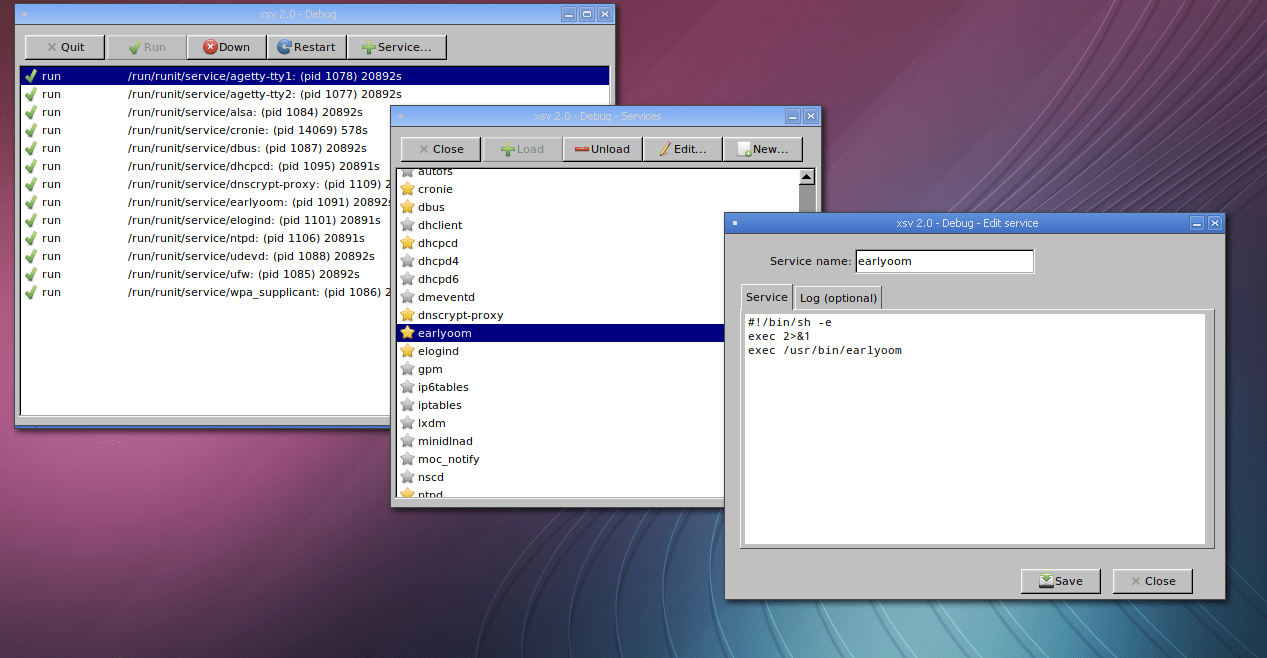
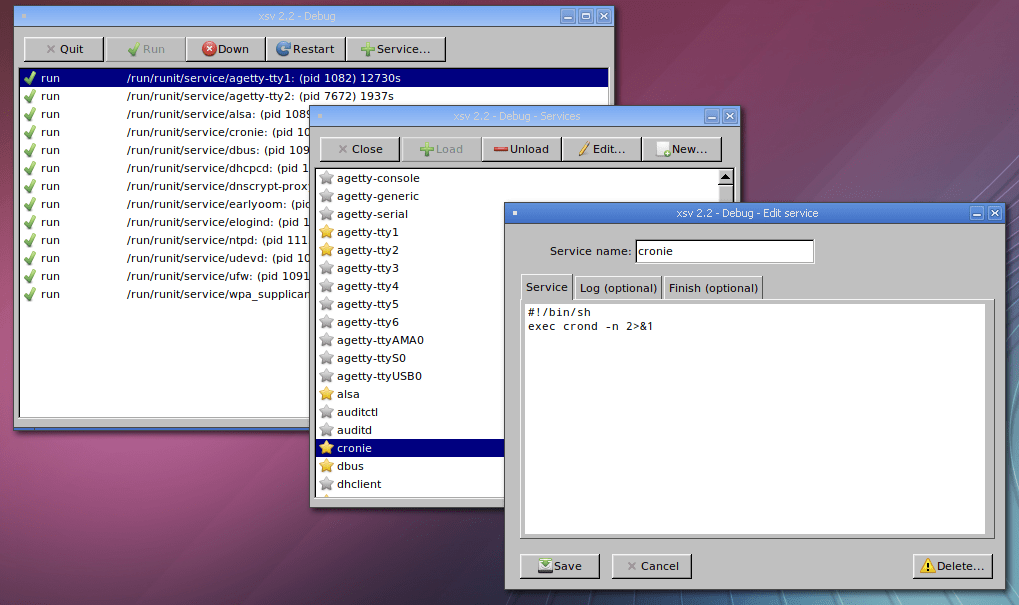
Allow delete service

diff --git a/src/xsv.cpp b/src/xsv.cpp
@@ -34,14 +34,16 @@ void SetFont(Fl_Text_Editor* w);
 void RemoveNewLine(std::string& str);
 bool AskIfContinue(char const* const service);
 void MakeServicePath(std::string const& service, std::string& path);
+void MakeServiceRunDirPath(std::string const& service, std::string& path);
 
 void QuitCb(UNUSED Fl_Widget* w, UNUSED void* data);
 void SelectCb(Fl_Widget* w, UNUSED void* data);
 void CommandCb(Fl_Widget* w, UNUSED void* data);
-void IntallUninstallCb(Fl_Widget* w, UNUSED void* data);
+void LoadUnloadCb(Fl_Widget* w, UNUSED void* data);
 void AddServicesCb(UNUSED Fl_Widget* w, void* data);
 void TimerCb(UNUSED void* data);
 void EditNewCb(Fl_Widget* w, void* data);
+void DeleteServiceCb(UNUSED Fl_Widget* w, void* data);
 
 static int itemSelect[BROWSER_MAX] { [ENABLE] = SELECT_RESET, [LIST] = SELECT_RESET };
 
@@ -263,8 +265,8 @@ void FillBrowserList(void)
 
 	FILE* pipe = PipeOpen(LS_SV);
 
-	btn[INSTALL]->deactivate();
-	btn[UNINSTALL]->deactivate();
+	btn[LOAD]->deactivate();
+	btn[UNLOAD]->deactivate();
 
 	browser[LIST]->clear();
 
@@ -311,11 +313,11 @@ void FillBrowserList(void)
 
 			if (data == STR_LOAD)
 			{
-				btn[UNINSTALL]->activate();
+				btn[UNLOAD]->activate();
 			}
 			else if (data == STR_UNLOAD)
 			{
-				btn[INSTALL]->activate();
+				btn[LOAD]->activate();
 			}
 			else
 			{
@@ -469,52 +471,37 @@ void RemoveNewLine(std::string& str)
 }
 
 
-void IntallUninstallCb(Fl_Widget* w, UNUSED void* data)
+void LoadUnloadCb(Fl_Widget* w, UNUSED void* data)
 {
 	ASSERT_DBG(w);
-
-	char* argv[5];
 
 	Fl_Button* btnId = (Fl_Button*)w;
 
 	int const item = GetSelected(browser[LIST]);
-	char const* const itemText = browser[LIST]->text(item);
+	char const* const service = browser[LIST]->text(item);
 
-	if (btnId == btn[UNINSTALL])
+	if (btnId == btn[UNLOAD])
 	{
-		if (not AskIfContinue(itemText))
+		if (not AskIfContinue(service))
 		{
 			return;
 		}
 	}
 
-	std::string dest = SV_RUN_DIR;
-	dest += "/";
-	dest += itemText;
-
+	std::string dest;
+	MakeServiceRunDirPath(service, dest);
 	RemoveNewLine(dest);
 
-	if (btnId == btn[INSTALL])
+	if (btnId == btn[LOAD])
 	{
 		std::string src;
-
-		MakeServicePath(itemText, src);
-
+		MakeServicePath(service, src);
 		RemoveNewLine(src);
-
-		argv[0] = "ln";
-		argv[1] = "-s";
-		argv[2] = (char*)src.c_str();
-		argv[3] = (char*)dest.c_str();
-		argv[4] = (char*)NULL;
-		System("ln", argv);
+		RunLink(src.c_str(), dest.c_str());
 	}
-	else if (btnId == btn[UNINSTALL])
+	else if (btnId == btn[UNLOAD])
 	{
-		argv[0] = "unlink";
-		argv[1] = (char*)dest.c_str();
-		argv[2] = (char*)NULL;
-		System("unlink", argv);
+		RunUnlink(dest.c_str());
 	}
 	else
 	{
@@ -589,22 +576,22 @@ void AddServicesCb(UNUSED Fl_Widget* w, void* data)
 							TITLE_SERVICE);
 
 	btn[CLOSE] = new Fl_Button(BTN_X, BTN_Y, BTN_W, BTN_H, "Close");
-	btn[INSTALL] = new Fl_Button(BTN_W + BTN_PAD, BTN_Y, BTN_W, BTN_H, STR_LOAD);
-	btn[UNINSTALL] = new Fl_Button(BTN_W * 2 + BTN_PAD, BTN_Y, BTN_W, BTN_H, STR_UNLOAD);
+	btn[LOAD] = new Fl_Button(BTN_W + BTN_PAD, BTN_Y, BTN_W, BTN_H, STR_LOAD);
+	btn[UNLOAD] = new Fl_Button(BTN_W * 2 + BTN_PAD, BTN_Y, BTN_W, BTN_H, STR_UNLOAD);
 	btn[EDIT] = new Fl_Button(BTN_W * 3 + BTN_PAD, BTN_Y, BTN_W, BTN_H, STR_EDIT);
 	btn[NEW] = new Fl_Button(BTN_W * 4 + BTN_PAD, BTN_Y, BTN_W, BTN_H, STR_NEW);
 	browser[LIST] = new Fl_Hold_Browser(4, 40, wnd->w() - 8, wnd->h() - 48);
 
 	btn[CLOSE]->image(get_icon_quit());
-	btn[INSTALL]->image(get_icon_add());
-	btn[UNINSTALL]->image(get_icon_remove());
+	btn[LOAD]->image(get_icon_add());
+	btn[UNLOAD]->image(get_icon_remove());
 	btn[EDIT]->image(get_icon_edit());
 	btn[NEW]->image(get_icon_new());
 
 	browser[LIST]->callback(SelectCb);
 	btn[CLOSE]->callback(CloseWindowCb, (void*)wnd);
-	btn[INSTALL]->callback(IntallUninstallCb);
-	btn[UNINSTALL]->callback(IntallUninstallCb);
+	btn[LOAD]->callback(LoadUnloadCb);
+	btn[UNLOAD]->callback(LoadUnloadCb);
 	btn[EDIT]->callback(EditNewCb, (void*)wnd);
 	btn[NEW]->callback(EditNewCb, (void*)wnd);
 
@@ -624,6 +611,15 @@ void AddServicesCb(UNUSED Fl_Widget* w, void* data)
 	delete browser[LIST];
 	delete wnd;
 }
+
+
+void MakeServiceRunDirPath(std::string const& service, std::string& path)
+{
+	path = SV_RUN_DIR;
+	path += "/";
+	path += service;
+}
+
 
 void MakeServicePath(std::string const& service, std::string& path)
 {
@@ -761,6 +757,7 @@ static void NewEditSaveCb(UNUSED Fl_Widget* w, void* data)
 	((Fl_Double_Window*)infoSave->data)->hide();
 }
 
+
 void EditNewCb(Fl_Widget* w, void* data)
 {
 	ASSERT_DBG(data);
@@ -846,21 +843,28 @@ void EditNewCb(Fl_Widget* w, void* data)
 	SetFont(tedt[TEDT_LOG]);
 	SetFont(tedt[TEDT_FINISH]);
 
-	btn[SAVE] = new Fl_Button(480 - (BTN_W + BTN_PAD) * 2, 360 - BTN_H, BTN_W, BTN_H, "Save");
-	btn[CANCEL] = new Fl_Button(480 - (BTN_W + BTN_PAD), 360 - BTN_H, BTN_W, BTN_H, "Cancel");
+	btn[DELETE] = new Fl_Button(500 - (BTN_W + BTN_PAD), 355 - BTN_H, BTN_W, BTN_H, "Delete...");
+	btn[SAVE] = new Fl_Button(15, 355 - BTN_H, BTN_W, BTN_H, "Save");
+	btn[CANCEL] = new Fl_Button(15 + BTN_W + BTN_PAD, 355 - BTN_H, BTN_W, BTN_H, "Cancel");
 
 	btn[SAVE]->callback(NewEditSaveCb, (void*)&infoSave);
 	btn[CANCEL]->callback(CloseWindowCb, (void*)wnd);
 
+	btn[DELETE]->image(get_icon_warning());
 	btn[SAVE]->image(get_icon_save());
 	btn[CANCEL]->image(get_icon_quit());
 
-	SetButtonFont(SAVE, CANCEL);
-	SetButtonAlign(SAVE, CANCEL, 256);
+	SetButtonFont(SAVE, DELETE);
+	SetButtonAlign(SAVE, DELETE, 256);
 
 	if (id == EDIT)
 	{
+		btn[DELETE]->callback(DeleteServiceCb, (void*)&infoSave);
 		EditLoad();
+	}
+	else /* NEW */
+	{
+		btn[DELETE]->deactivate();
 	}
 
 	wnd->end();
@@ -873,6 +877,7 @@ void EditNewCb(Fl_Widget* w, void* data)
 	delete tedt[TEDT_SERV];
 	delete tedt[TEDT_LOG];
 	delete tedt[TEDT_FINISH];
+	delete btn[DELETE];
 	delete btn[SAVE];
 	delete btn[CANCEL];
 	delete grp0;
@@ -883,4 +888,42 @@ void EditNewCb(Fl_Widget* w, void* data)
 	delete wnd;
 
 	FillBrowserList();
+}
+
+
+void DeleteServiceCb(UNUSED Fl_Widget* w, void* data)
+{
+	ASSERT_DBG(data);
+
+	struct NewEditSave* infoSave = (struct NewEditSave*)data;
+	char const* const service = infoSave->service;
+
+	std::string path;
+	bool showError = true;
+
+	MakeServiceDirPath(service, path);
+
+	int const ret = fl_choice("Alert: This action cannot be undone.\nThe directory '%s' will be removed.\nAre you sure to continue?",
+							 "No", "Yes, delete", NULL, path.c_str());
+
+	if (ret == 0)
+	{
+		return;
+	}
+
+	MakeServiceRunDirPath(service, path);
+
+	if (FileAccessOk(path.c_str(), not showError))
+	{
+		RunUnlink(path.c_str());
+	}
+
+	MakeServiceDirPath(service, path);
+
+	if (DirAccessOk(path.c_str(), showError))
+	{
+		RunRemoveDir(path.c_str());
+	}
+
+	((Fl_Double_Window*)infoSave->data)->hide();
 }

diff --git a/src/system.cpp b/src/system.cpp
@@ -225,3 +225,34 @@ bool MakeDir(char const* const dirName, bool showError)
 
 	return true;
 }
+
+void RunLink(char const* const src, char const* const dest)
+{
+	char* argv[5];
+	argv[0] = "ln";
+	argv[1] = "-s";
+	argv[2] = (char*)src;
+	argv[3] = (char*)dest;
+	argv[4] = (char*)NULL;
+	System("ln", argv);
+}
+
+
+void RunUnlink(char const* const dest)
+{
+	char* argv[3];
+	argv[0] = "unlink";
+	argv[1] = (char*)dest;
+	argv[2] = (char*)NULL;
+	System("unlink", argv);
+}
+
+void RunRemoveDir(char const* const dest)
+{
+	char* argv[4];
+	argv[0] = "rm";
+	argv[1] = "-rf";
+	argv[2] = (char*)dest;
+	argv[3] = (char*)NULL;
+	System("rm", argv);
+}

diff --git a/src/system.h b/src/system.h
@@ -36,4 +36,10 @@ void FileToExecutableMode(char const* const fileName);
 
 bool MakeDir(char const* const dirName, bool showError);
 
+void RunLink(char const* const src, char const* const dest);
+
+void RunUnlink(char const* const dest);
+
+void RunRemoveDir(char const* const dest);
+
 #endif
